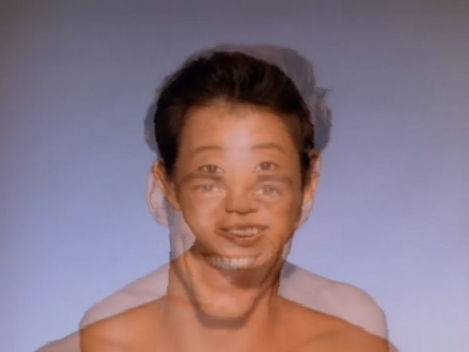
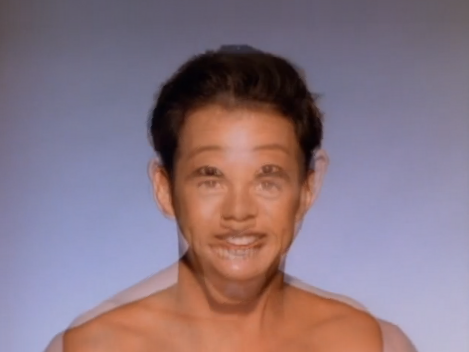
morph update

diff --git a/morph.php b/morph.php
@@ -1,5 +1,74 @@
 <?php
 
+/**
+ * Documents:
+ * http://www.cs.toronto.edu/~mangas/teaching/320/slides/CSC320T12.pdf
+ * http://www.cs.cmu.edu/afs/andrew/scs/cs/15-463/99/pub/www/notes/warp.pdf
+ * http://graphics.cs.cmu.edu/courses/15-463/2011_fall/Lectures/morphing.pdf
+ * 
+ * http://matematyka.pisz.pl/forum/47244.html
+ * http://www.matemaks.pl/rownanie-prostej-przechodzacej-przez-dwa-punkty.html
+ */
+$srcImage = __DIR__ . '/images/morph/pic3.png';
+$trgImage = __DIR__ . '/images/morph/pic2.png';
+$src = [
+    [ 326, 116, 298, 47 ],
+	[ 298, 47, 180, 43 ],
+	[ 180, 43, 145, 106 ],
+];
+$trg = [
+    [ 319, 151, 301, 88 ],
+	[ 301, 88, 181, 86 ],
+	[ 181, 86, 158, 149 ],
+];
+
+$morphDir = __DIR__ . '/morph/';
+
+array_map('unlink', glob("$morphDir/*.png"));
+sleep(3);
+
+$t = 0.5;
+
+$filename = $morphDir . '/src.01.png';
+$im = imagecreatefrompng($srcImage);
+$a = [];
+foreach($src as $P) {
+	imageline($im, $P[0], $P[1], $P[2], $P[3], 0x0000FF);
+	$a[] = [ $P[2], $P[3] ];
+}
+
+foreach($a as $p)
+imagesetpixel($im, $p[0], $p[1], 0xFF0000);
+
+imagepng($im, $filename);
+imagedestroy($im);
+
+$filename = $morphDir . '/trg.01.png';
+$im = imagecreatefrompng($trgImage);
+
+foreach($trg as $P) {
+	imageline($im, $P[0], $P[1], $P[2], $P[3], 0x0000FF);
+}
+
+imagepng($im, $filename);
+imagedestroy($im);
+
+$srcLines = [];
+foreach($src as $P) {
+	$srcLines[] = new Line(new Point($P[0], $P[1]), new Point($P[2], $P[3]));
+}
+
+$trgLines = [];
+foreach($trg as $P) {
+	$trgLines[] = new Line(new Point($P[0], $P[1]), new Point($P[2], $P[3]));
+}
+
+
+
+$dstLines = getDstLines($srcLines, $trgLines, $t);
+$srcImgData = getImageData($srcImage);
+$trgImgData = getImageData($trgImage);
+
 class Point {
 
     public $x = 0;
@@ -21,81 +90,38 @@ class Line {
         $this->p1 = $p1;
         $this->p2 = $p2;
     }
-
 }
 
-/**
- * Documents:
- * http://www.cs.toronto.edu/~mangas/teaching/320/slides/CSC320T12.pdf
- * http://www.cs.cmu.edu/afs/andrew/scs/cs/15-463/99/pub/www/notes/warp.pdf
- * http://graphics.cs.cmu.edu/courses/15-463/2011_fall/Lectures/morphing.pdf
- * 
- * http://matematyka.pisz.pl/forum/47244.html
- * http://www.matemaks.pl/rownanie-prostej-przechodzacej-przez-dwa-punkty.html
- */
-$srcImage = __DIR__ . '/images/morph/pic3.png';
-$trgImage = __DIR__ . '/images/morph/pic2.png';
+function getDstLines($srcLines, $trgLines, $t) {
+	$dst = [];
+	
+	for($i = 0; $i < count($srcLines); $i++) {
 
-$morphDir = __DIR__ . '/morph/';
-
-array_map('unlink', glob("$morphDir/*"));
-sleep(3);
-
-$P = [180, 40];
-$Q = [140, 110];
-
-$P_ = [195, 67];
-$Q_ = [145, 145];
-
-$X = [40, 100];
-$X_ = [300, 150];
-
-$t = 0.5;
-
-// Pt to odcinek między granicami PQ i P_Q_
-$Pt = [(1 - $t) * $P[0] + $t * $P_[0], (1 - $t) * $P[1] + $t * $P_[1]];
-$Qt = [(1 - $t) * $Q[0] + $t * $Q_[0], (1 - $t) * $Q[1] + $t * $Q_[1]];
-
-
-$filename = $morphDir . '/src.01.png';
-$im = imagecreatefrompng($srcImage);
-$color = 0x0000FF;
-imageline($im, $P[0], $P[1], $Q[0], $Q[1], $color);
-imagepng($im, $filename);
-imagedestroy($im);
-
-$filename = $morphDir . '/trg.01.png';
-$im = imagecreatefrompng($trgImage);
-$color = 0x0000FF;
-imageline($im, $P_[0], $P_[1], $Q_[0], $Q_[1], $color);
-imagepng($im, $filename);
-imagedestroy($im);
-
-
-$srcLines = [
-    new Line(new Point($P[0], $P[1]), new Point($Q[0], $Q[1])),
-];
-
-$trgLines = [
-    new Line(new Point($P_[0], $P_[1]), new Point($Q_[0], $Q_[1])),
-];
-
-$dstLines = [
-    new Line(new Point($Pt[0], $Pt[1]), new Point($Qt[0], $Qt[1])),
-];
-
-$srcImgData = getImageData($srcImage);
-$trgImgData = getImageData($trgImage);
+		$P = $srcLines[$i]->p1;
+		$Q = $srcLines[$i]->p2;
+		
+		$P_ = $trgLines[$i]->p1;
+		$Q_ = $trgLines[$i]->p2;
+				
+		$Pt = new Point((1 - $t) * $P->x + $t * $P_->x, (1 - $t) * $P->y + $t * $P_->y);
+		$Qt = new Point((1 - $t) * $Q->x + $t * $Q_->x, (1 - $t) * $Q->y + $t * $Q_->y);
+		
+		$dst[] = new Line($Pt, $Qt);
+	}
+	
+	return $dst;
+}
 
 function getU(Line $pq, Point $x) {
-    return (($x->x - $pq->p1->x) * ($pq->p2->x - $pq->p1->x) +
-            ($x->y - $pq->p1->y) * ($pq->p2->y - $pq->p1->y)) / squareLength($pq->p1, $pq->p2);
+    return (($x->x - $pq->p1->x) * ($pq->p2->x - $pq->p1->x) + ($x->y - $pq->p1->y) * ($pq->p2->y - $pq->p1->y))
+			/ squareLength($pq->p1, $pq->p2);
 }
 
 function getV(Line $pq, Point $x) {
     $perp = perpendicular($pq);
 
-    return (($x->x - $pq->p1->x) * $perp->x + ($x->y - $pq->p1->y) * $perp->y) / lineLength($pq);
+    return (($x->x - $pq->p1->x) * $perp->x + ($x->y - $pq->p1->y) * $perp->y)
+			/ lineLength($pq);
 }
 
 function getXp($u, $v, Line $pqp, Point $x) {
@@ -319,20 +345,21 @@ function getDestImgData($srcImgData, $trgImgData, $t) {
 }
 
 $warpedSrcImgData = warpImage($srcLines, $dstLines, $srcImgData);
-$warpedTrgImgData = warpImage($trgLines, $dstLines, $trgImgData);
-$destWarpedImgData = getDestImgData($warpedSrcImgData, $warpedTrgImgData, $t);
-$destNowarpedImgData = getDestImgData($srcImgData, $trgImgData, $t);
-
-// Create warped images:
-
 $filename = $morphDir . '/warp.src.01.png';
 saveImage($filename, $warpedSrcImgData);
+var_dump('Warped source image');
 
+$warpedTrgImgData = warpImage($trgLines, $dstLines, $trgImgData);
 $filename = $morphDir . '/warp.trg.01.png';
 saveImage($filename, $warpedTrgImgData);
+var_dump('Warped target image');
 
+$destWarpedImgData = getDestImgData($warpedSrcImgData, $warpedTrgImgData, $t);
 $filename = $morphDir . '/dest.warped.01.png';
 saveImage($filename, $destWarpedImgData);
+var_dump('Destination image warped');
 
-$filename = $morphDir . '/dest.nowarped.01.png';
-saveImage($filename, $destNowarpedImgData);
+$destNotWarpedImgData = getDestImgData($srcImgData, $trgImgData, $t);
+$filename = $morphDir . '/dest.notwarped.01.png';
+saveImage($filename, $destNotWarpedImgData);
+var_dump('Destination image not warped');
